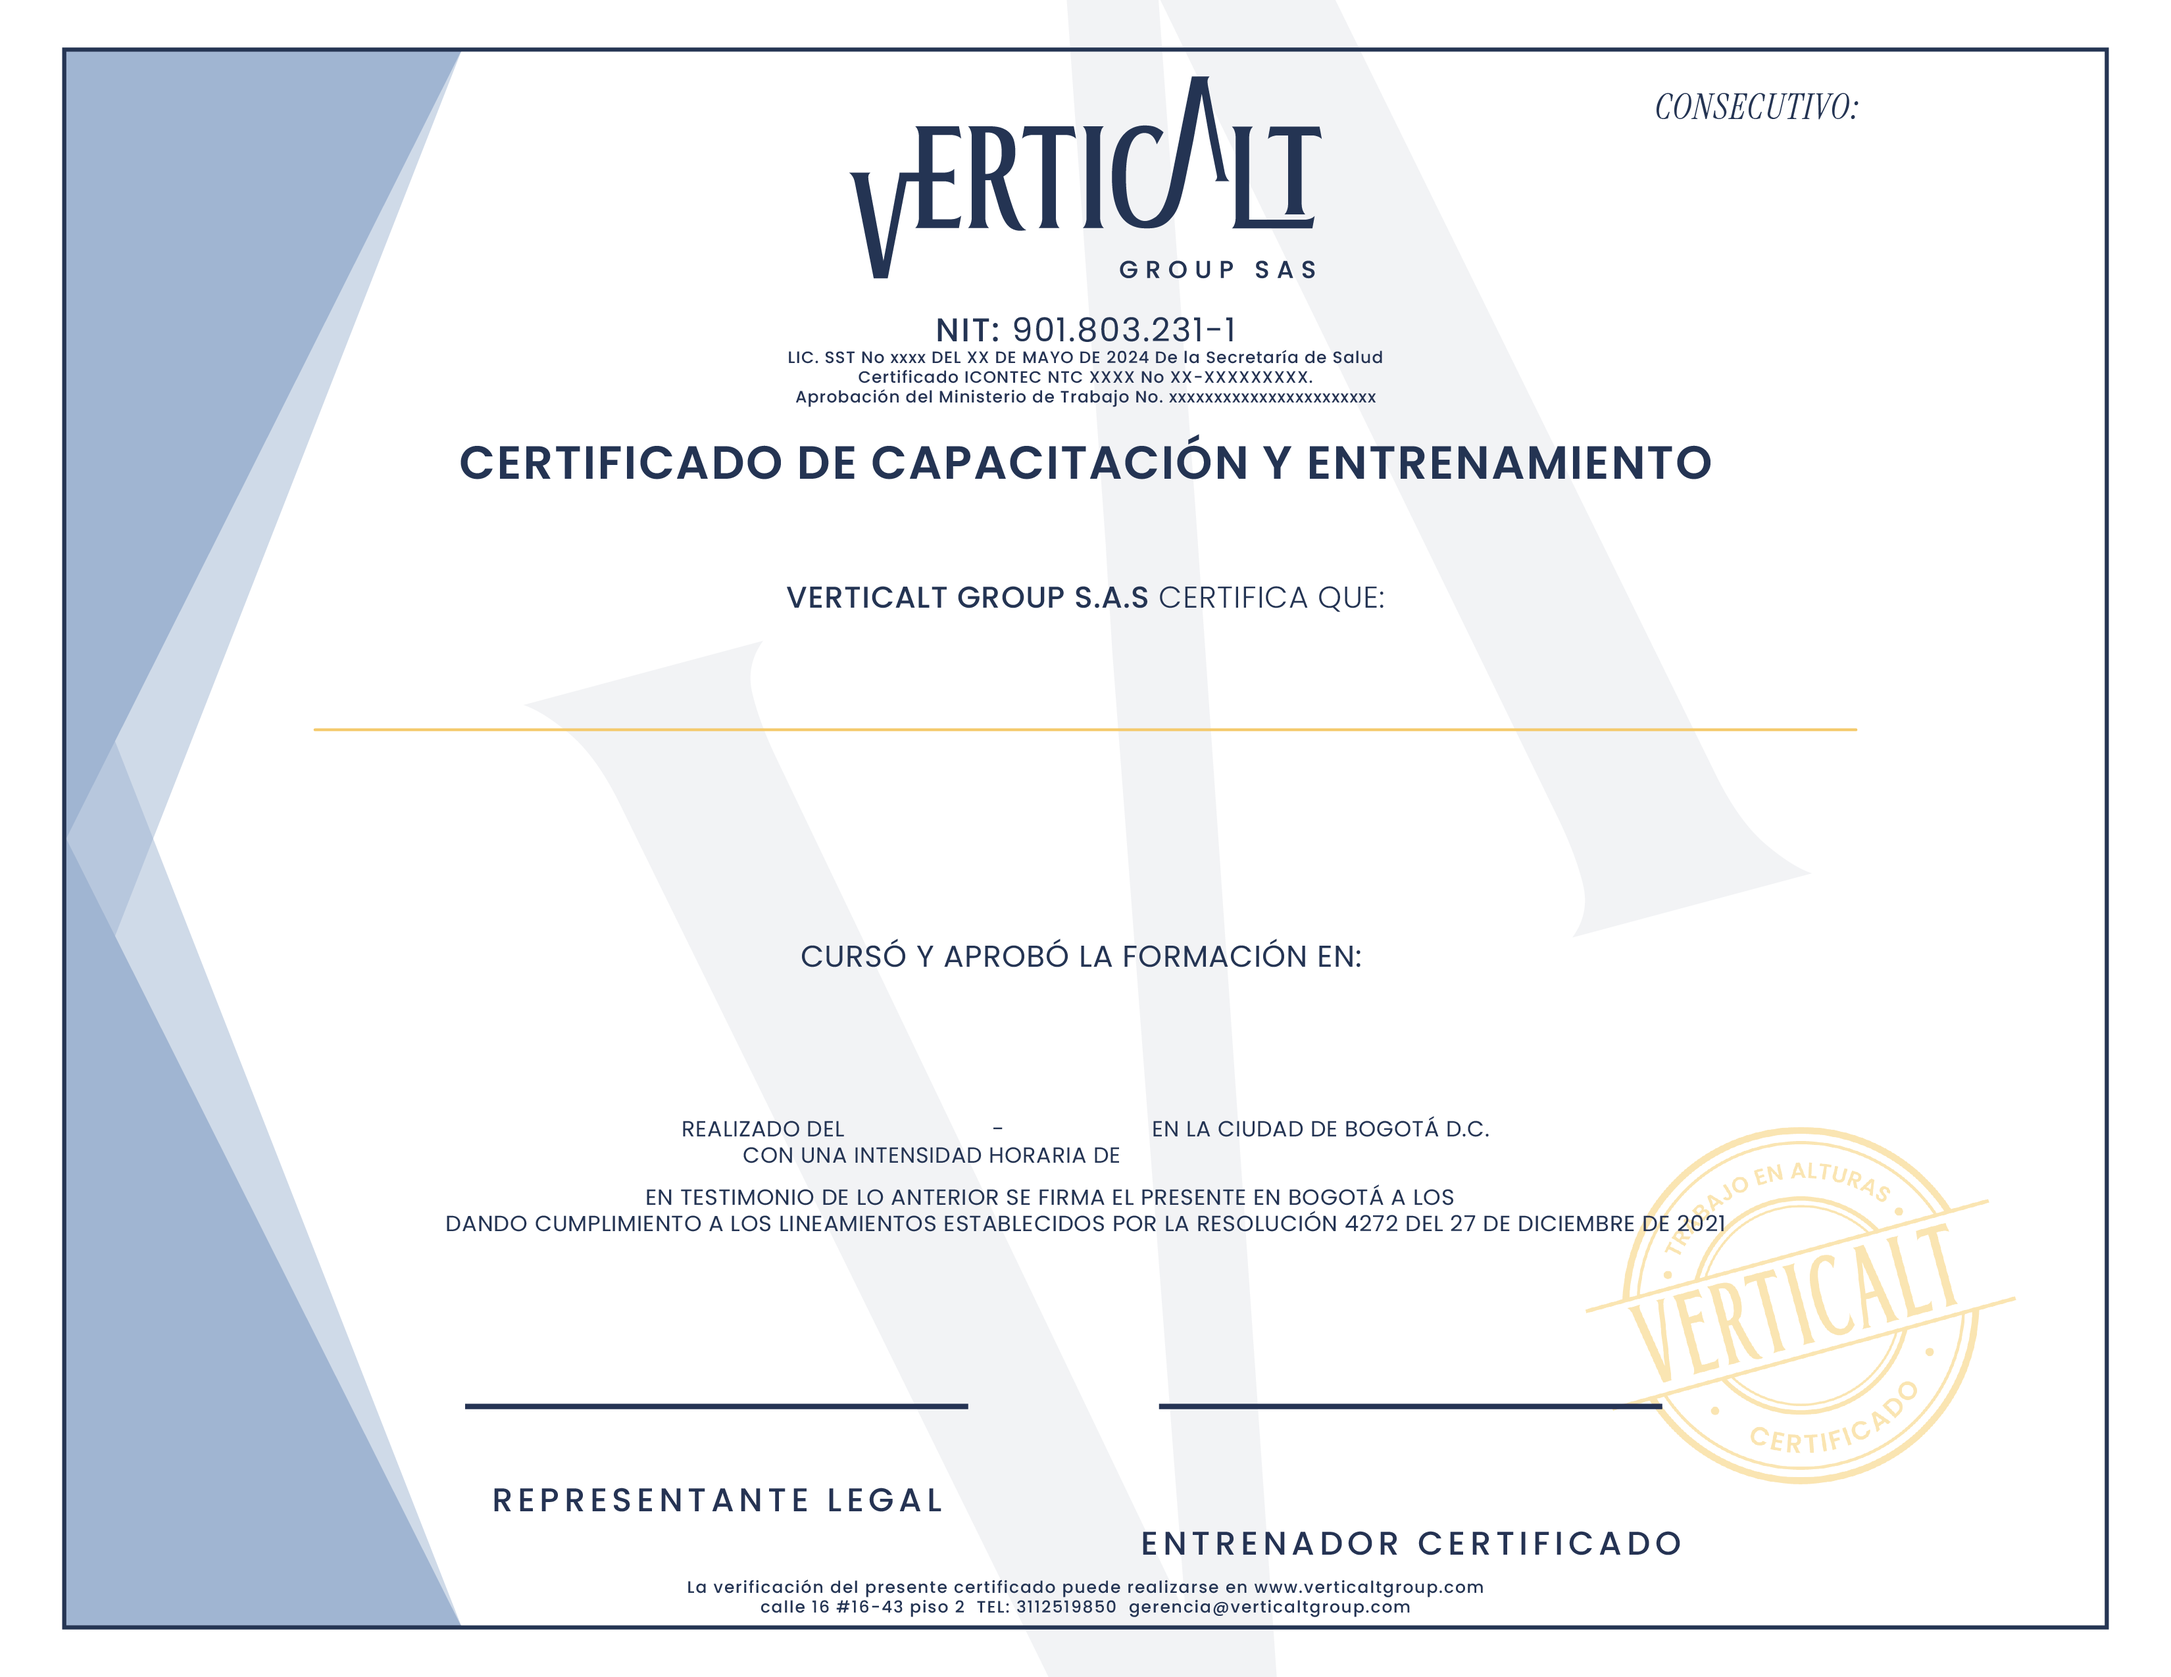
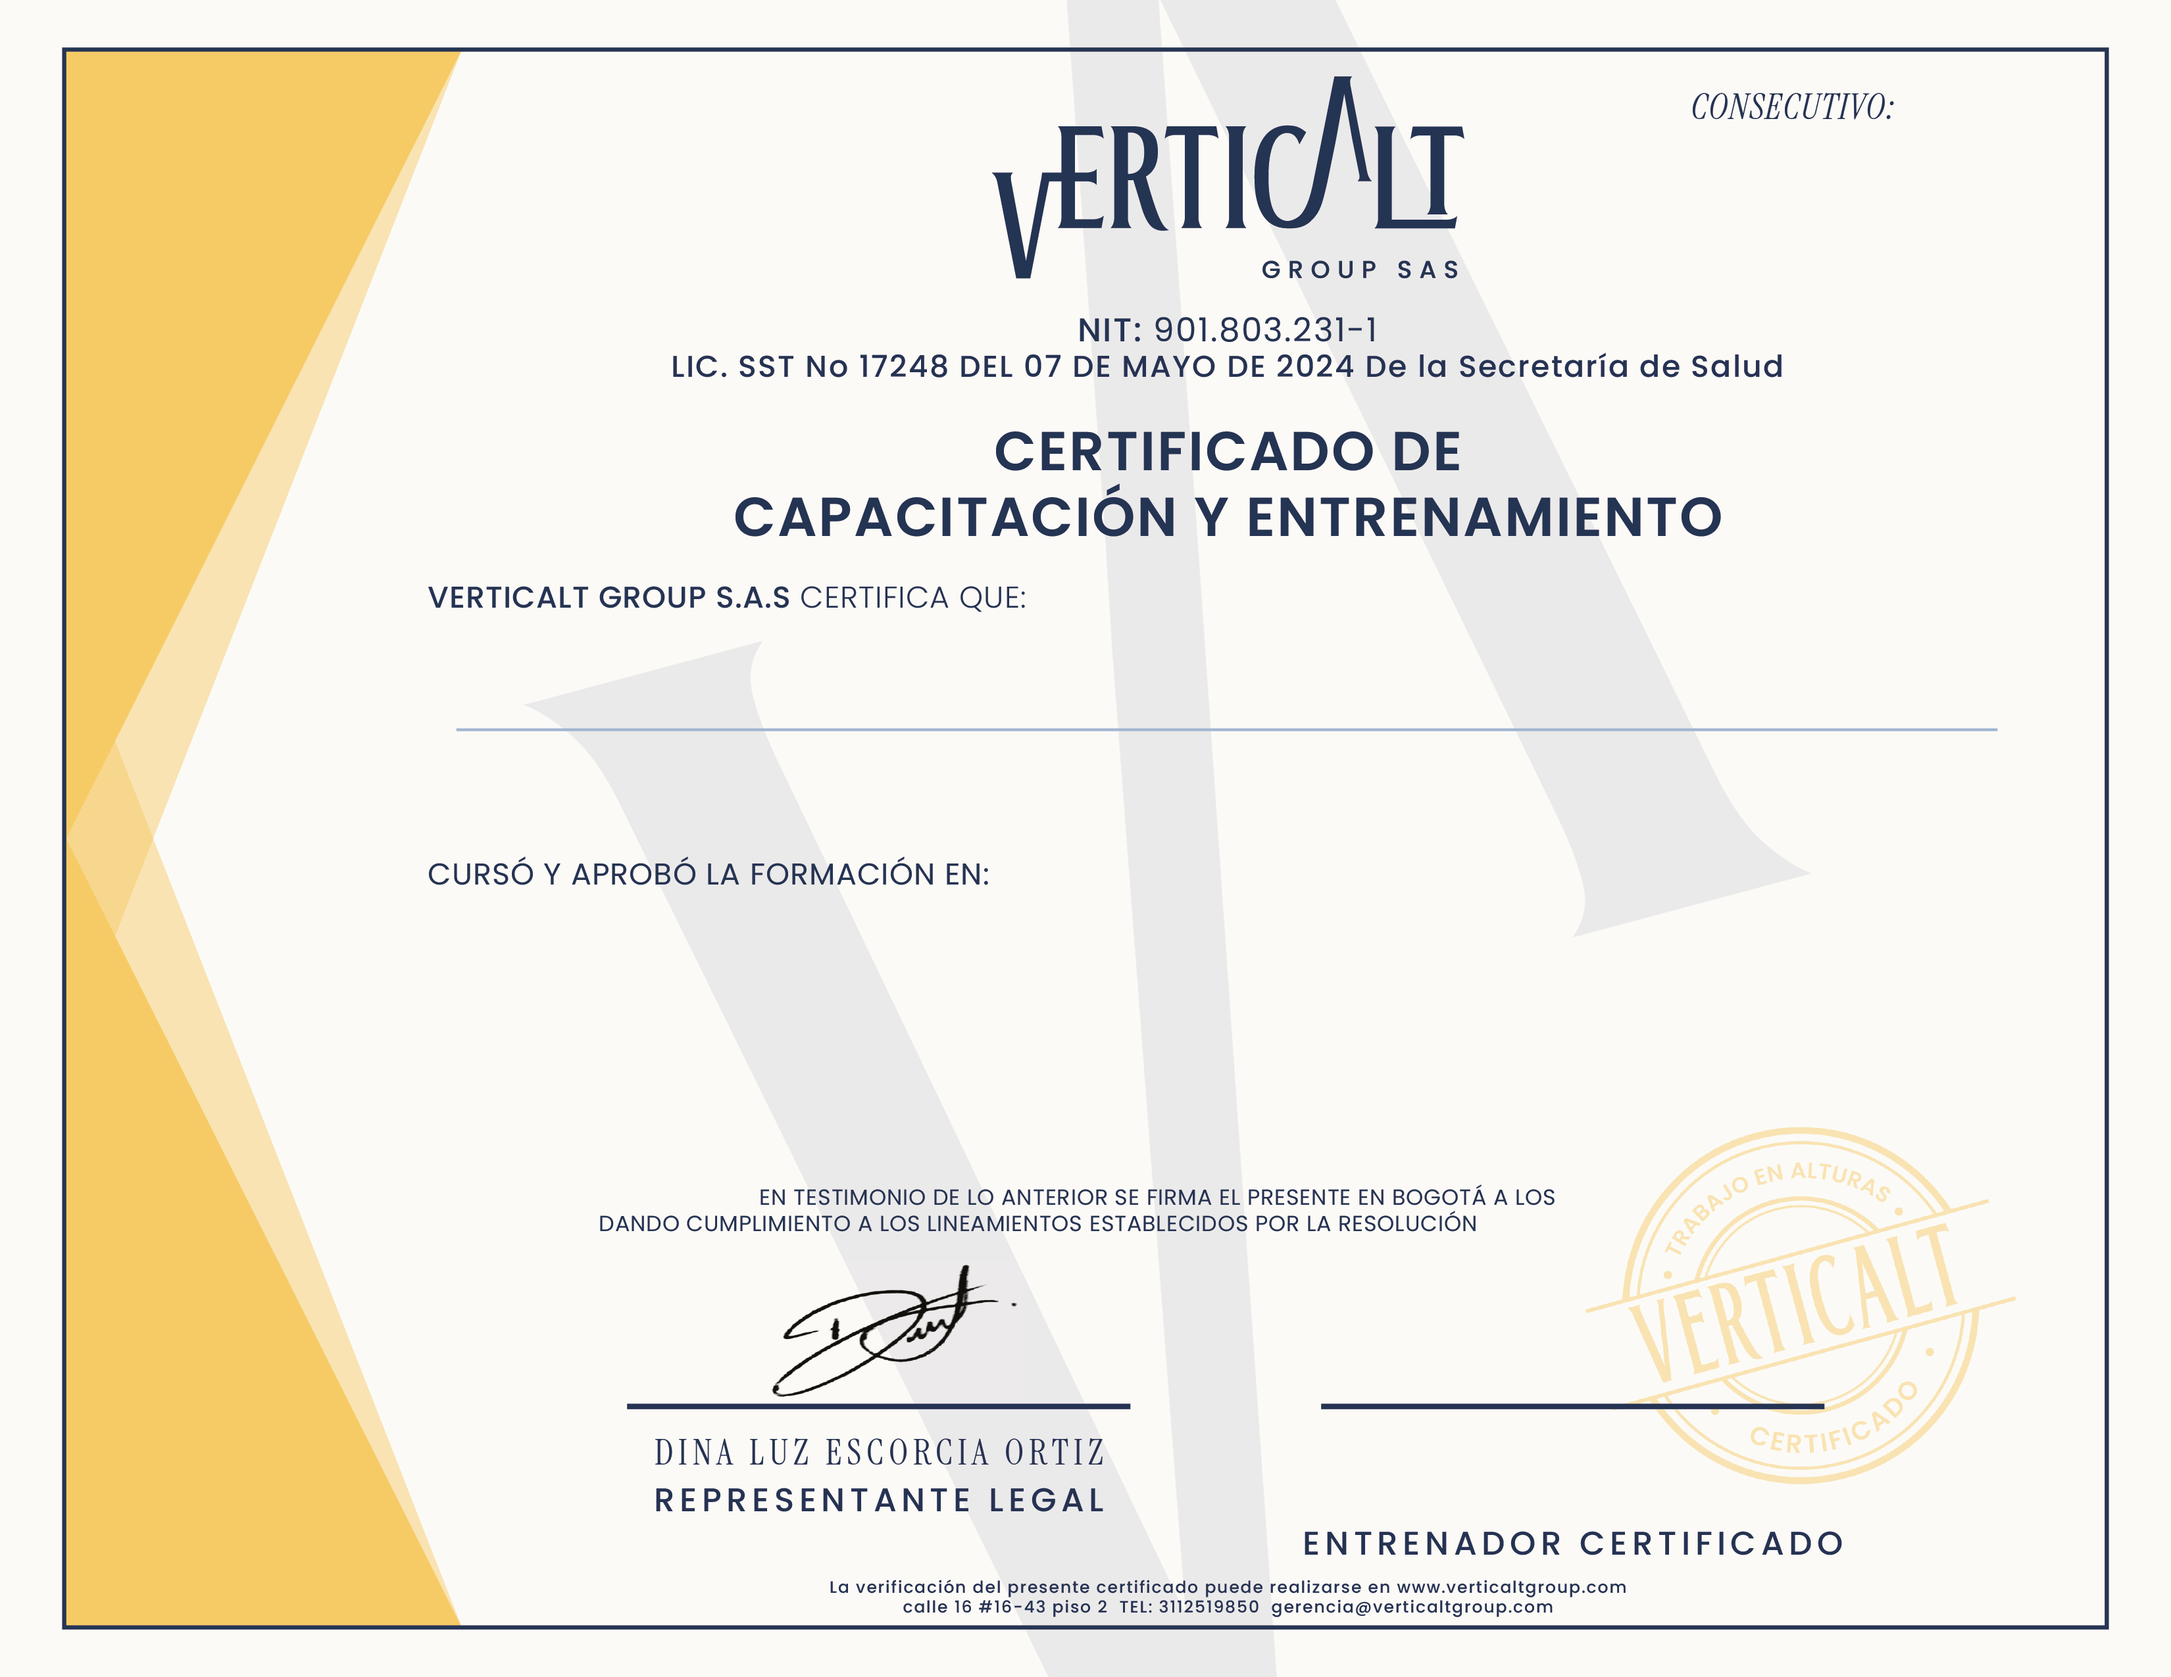
The template was modified for template #2

diff --git a/resources/views/exports/certificadoV2.blade.php b/resources/views/exports/certificadoV2.blade.php
@@ -70,11 +70,11 @@
     <div class="certificado d-inline-flex" style="height: 99%; width: 100%; margin-top: 5px;">
         <h5 class="text-end " style="margin-top: 54px; margin-right: 96px">{{ $data['consecutivo'] }}
         </h5>
-        <h1 class="text-center justify-content-center certificado-titulo " style="margin-top: 300px">
+        <h1 class="text-center justify-content-center certificado-titulo " style="margin-top: 300px; margin-left: 40px">
             {{ Str::upper($data['nombre_cliente']) }}</h1>
 
         <h3 class="justify-content-center  "
-            style="margin-top: 10px; margin-left:610px; font-wight: 100;font-family: Helvetica-Oblique">
+            style="margin-top: 10px; margin-left:620px; font-wight: 100;font-family: Helvetica-Oblique">
             {{ $data['documento_identidad'] }}</h3>
       
         <div class="col-2 d-none" style="margin-left: 500px; margin-top: -5px;"> 
@@ -107,43 +107,43 @@
                
 
         <h2 class="justify-content-center text-center  "
-            style=" margin-top:103px; font-wight: 800; font-size: 44px ">
+            style=" margin-top:80px; font-wight: 800; font-size: 44px; margin-left: 40px ">
             {{ $data['nombre_curso'] }}
         </h2>
 
-        <h5 class="justify-content-center  "
+        <<h5 class="justify-content-center d-none "
             style="margin-left: 520px; font-wight: 600; font-size:14px; margin-top:30px">
-            {{ Str::upper($data['desde']) }}
+            { Str::upper($data['desde']) }}
         </h5>
-        <h5 class="justify-content-center  "
+        <h5 class="justify-content-center d-none "
           style="margin-left: 615px; font-wight: 600; font-size:14px; margin-top:-25px">
-            {{ Str::upper($data['hasta']) }}
+            { Str::upper($data['hasta']) }}
         </h5>
-        <h5 class="justify-content-center  "
+        <h5 class="justify-content-center d-none "
           style="margin-left: 678px; font-wight: 600; font-size:14px; margin-top:-8px">
-            {{ $data['horas'] }}
+            { $data['horas'] }}
         </h5>
-        <h5 class="justify-content-center  "
+        <h5 class="justify-content-center d-none "
             style="margin-left: 879px; font-wight: 600; font-size:14px; margin-top:9px">
-            {{ Str::upper($data['emitido']) }}
+            { Str::upper($data['emitido']) }}
         </h5>
 
         <div class="col-12 d-flex" style="display: flex; margin-top: 65px; margin-left:80px">
-            <div class="col-6">
+            <!--<div class="col-6">
                 <div>
-                    <img src="{{ asset('storage/representantes/' . $data['firma_representante_legal']) }}"
+                    <img src="{ asset('storage/representantes/' . $data['firma_representante_legal']) }}"
                         width="100" alt="firma-representante-legal" style="margin-left: 290px; margin-top:5px ">
                     <h3 class="justify-content-center text-center  "
                         style="margin-left: 50px; margin-top: 0px">
-                        {{ $data['nombre_representante_legal'] }}</h3>
+                        { $data['nombre_representante_legal'] }}</h3>
                 </div>
-            </div>
-            <div class="col-6" style="margin-left: 500px">
+            </div>-->
+            <div class="col-6" style="margin-left: 600px">
                 <div >
                     <img src="{{ asset('storage/instructores/' . $data['firma_instructor']) }}" width="100"
-                        alt="firma-representante-instructor" style="margin-left: 180px; margin-top: -95px ">
+                        alt="firma-representante-instructor" style="margin-left: 185px; margin-top: 120px ">
                     <h3 class="justify-content-center text-center  "
-                        style="margin-left: -140px; margin-top: -60px; margin-bottom: -300px">
+                        style="margin-left: -140px; margin-top: 57px; margin-bottom: -300px">
                         {{ $data['nombre_instructor'] }}
                         <h5 class="justify-content-center text-center "
                             style=" margin-top: -57px">
